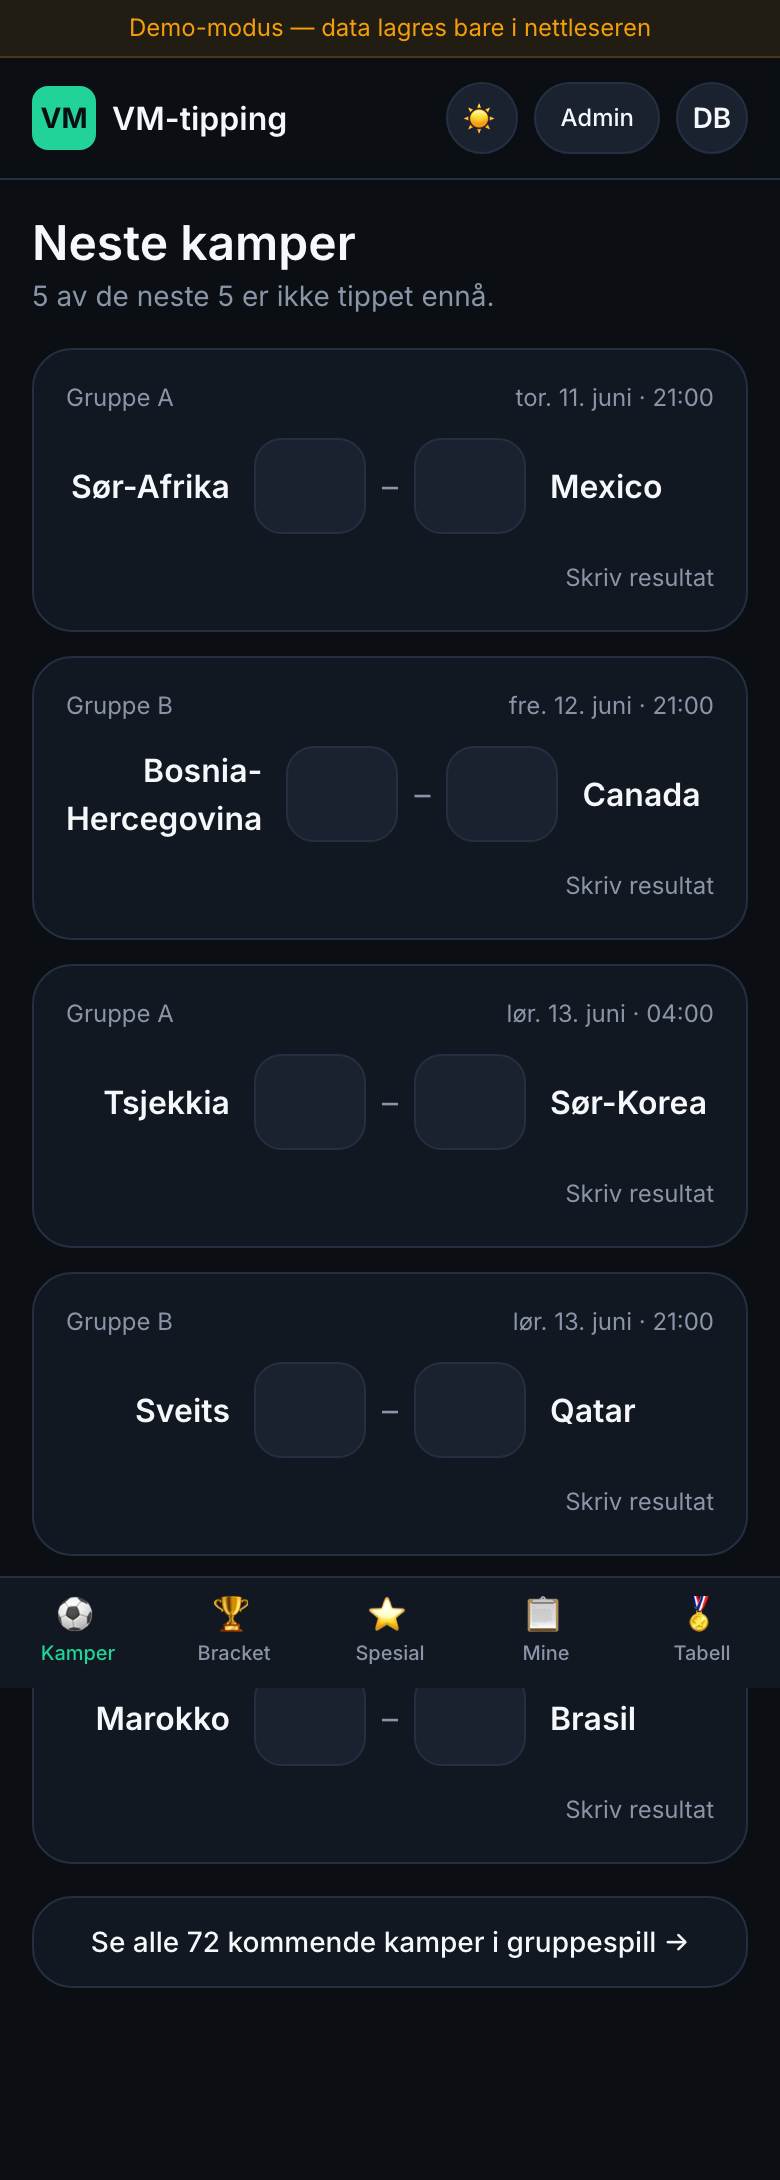
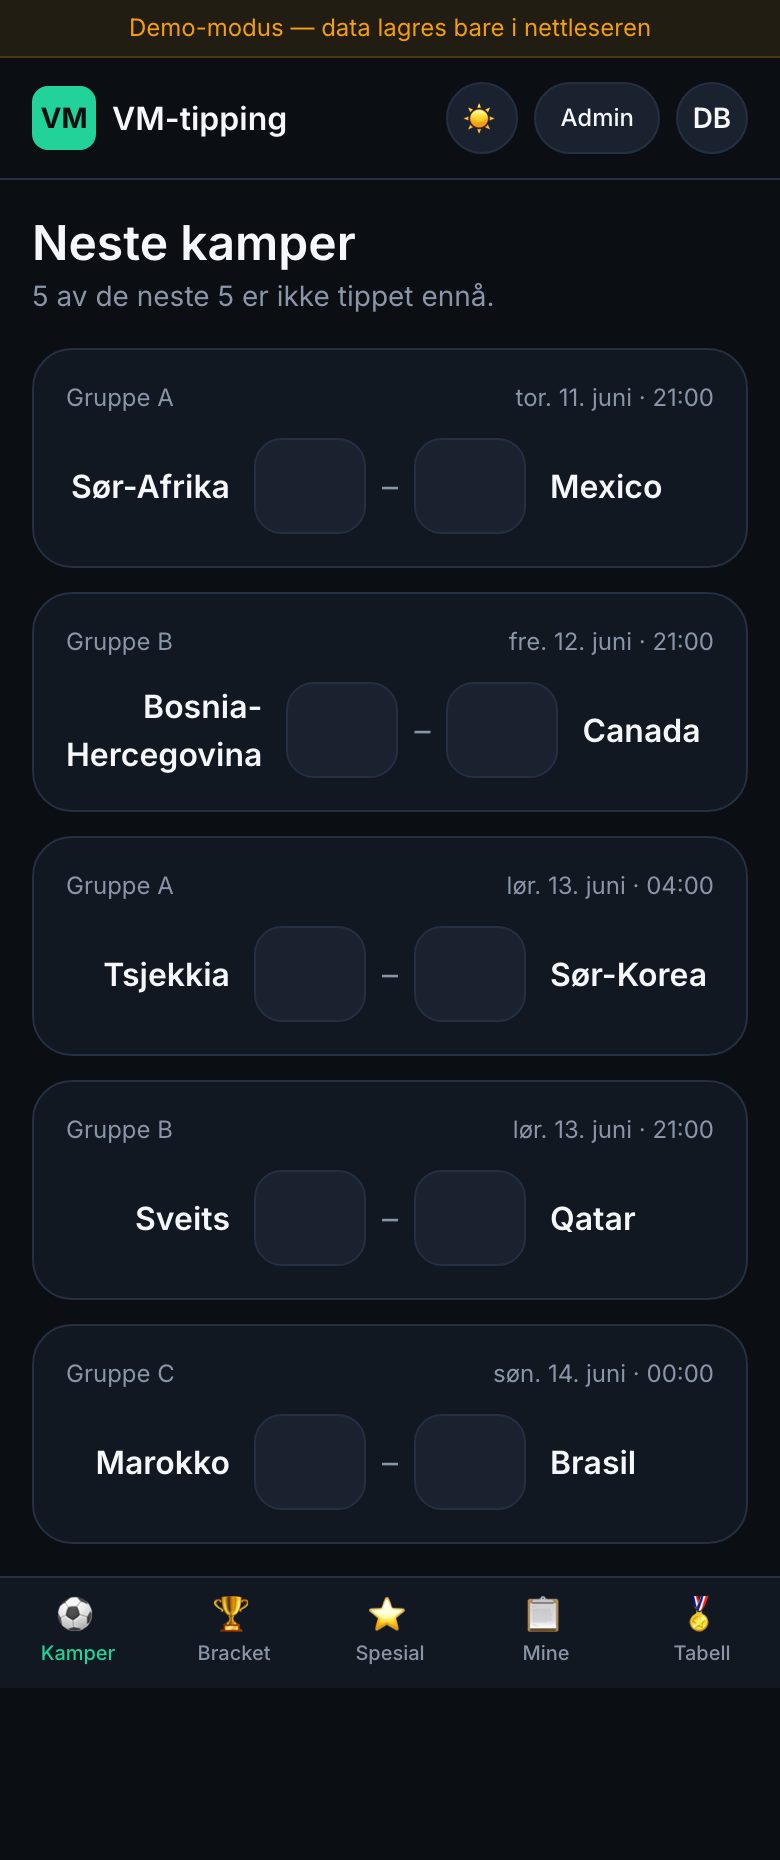
Fjern all lagre-/oppdaterstatus
Skriver du noe så lagres det stille. Ingen 'Lagret ✓', 'Lagrer…',
'Tippet' eller 'Skriv resultat'-tekster lengre. Eneste status er
'Låst' når kampen er i gang.

diff --git a/app/spesial/page.tsx b/app/spesial/page.tsx
@@ -27,7 +27,6 @@ function Spesial() {
   const [toppscorer, setToppscorer] = useState("");
   const [toppassist, setToppassist] = useState("");
   const [mestRødeKort, setMestRødeKort] = useState("");
-  const [status, setStatus] = useState<"idle" | "lagrer" | "lagret">("idle");
   const klar = useRef(false);
 
   useEffect(() => {
@@ -64,9 +63,8 @@ function Spesial() {
       !mestRødeKort
     )
       return;
-    const t = setTimeout(async () => {
-      setStatus("lagrer");
-      await lagreSpesialTip({
+    const t = setTimeout(() => {
+      lagreSpesialTip({
         uid: user.uid,
         vmVinner,
         vmFinalist,
@@ -75,8 +73,6 @@ function Spesial() {
         mestRødeKort,
         lagretTid: Date.now(),
       });
-      setStatus("lagret");
-      setTimeout(() => setStatus("idle"), 1500);
     }, 600);
     return () => clearTimeout(t);
   }, [
@@ -91,21 +87,11 @@ function Spesial() {
 
   return (
     <div className="space-y-4">
-      <div className="flex items-end justify-between">
-        <div>
-          <h1 className="text-2xl font-semibold">Spesialtips</h1>
-          <p className="text-muted text-sm">
-            Lagres automatisk. Kan endres frem til VM starter.
-          </p>
-        </div>
-        <div className="h-5">
-          {status === "lagrer" && (
-            <span className="text-xs text-muted">Lagrer…</span>
-          )}
-          {status === "lagret" && (
-            <span className="text-xs text-success font-semibold">✓ Lagret</span>
-          )}
-        </div>
+      <div>
+        <h1 className="text-2xl font-semibold">Spesialtips</h1>
+        <p className="text-muted text-sm">
+          Kan endres frem til VM starter.
+        </p>
       </div>
 
       <Boks

diff --git a/app/kamper/page.tsx b/app/kamper/page.tsx
@@ -93,9 +93,6 @@ function KampKort({
 }) {
   const [hjem, setHjem] = useState(tip ? String(tip.hjemme) : "");
   const [bort, setBort] = useState(tip ? String(tip.borte) : "");
-  const [lagrer, setLagrer] = useState(false);
-  const [lagret, setLagret] = useState(false);
-
   useEffect(() => {
     if (tip) {
       setHjem(String(tip.hjemme));
@@ -110,15 +107,8 @@ function KampKort({
 
   useEffect(() => {
     if (!gyldig || uendret) return;
-    const t = setTimeout(async () => {
-      setLagrer(true);
-      try {
-        await onLagre(Number(hjem), Number(bort));
-        setLagret(true);
-        setTimeout(() => setLagret(false), 1500);
-      } finally {
-        setLagrer(false);
-      }
+    const t = setTimeout(() => {
+      onLagre(Number(hjem), Number(bort));
     }, 500);
     return () => clearTimeout(t);
     // eslint-disable-next-line react-hooks/exhaustive-deps
@@ -168,34 +158,8 @@ function KampKort({
           <div className="font-semibold">{kamp.bortelag}</div>
         </div>
       </div>
-
-      <div className="mt-3 flex items-center justify-end h-5">
-        <Status lagrer={lagrer} lagret={lagret} tippet={Boolean(tip)} />
-      </div>
     </div>
   );
-}
-
-function Status({
-  lagrer,
-  lagret,
-  tippet,
-}: {
-  lagrer: boolean;
-  lagret: boolean;
-  tippet: boolean;
-}) {
-  if (lagrer)
-    return <span className="text-xs text-muted">Lagrer…</span>;
-  if (lagret)
-    return (
-      <span className="text-xs text-success font-semibold flex items-center gap-1">
-        ✓ Lagret
-      </span>
-    );
-  if (tippet)
-    return <span className="text-xs text-muted">Tippet</span>;
-  return <span className="text-xs text-muted">Skriv resultat</span>;
 }
 
 function Sc({

diff --git a/app/sluttspill/[gruppe]/page.tsx b/app/sluttspill/[gruppe]/page.tsx
@@ -168,9 +168,6 @@ function KampRad({
 }) {
   const [hjem, setHjem] = useState(tip ? String(tip.hjemme) : "");
   const [bort, setBort] = useState(tip ? String(tip.borte) : "");
-  const [lagret, setLagret] = useState(false);
-  const [lagrer, setLagrer] = useState(false);
-
   useEffect(() => {
     if (tip) {
       setHjem(String(tip.hjemme));
@@ -186,15 +183,8 @@ function KampRad({
 
   useEffect(() => {
     if (låst || !gyldig || uendret) return;
-    const t = setTimeout(async () => {
-      setLagrer(true);
-      try {
-        await onLagre(Number(hjem), Number(bort));
-        setLagret(true);
-        setTimeout(() => setLagret(false), 1500);
-      } finally {
-        setLagrer(false);
-      }
+    const t = setTimeout(() => {
+      onLagre(Number(hjem), Number(bort));
     }, 500);
     return () => clearTimeout(t);
     // eslint-disable-next-line react-hooks/exhaustive-deps
@@ -247,21 +237,11 @@ function KampRad({
           {kamp.bortelag}
         </div>
       </div>
-      <div className="mt-2 flex items-center justify-end h-4">
-        {låst ? (
+      {låst && (
+        <div className="mt-2 flex items-center justify-end">
           <span className="text-[10px] text-muted">Låst</span>
-        ) : lagrer ? (
-          <span className="text-[10px] text-muted">Lagrer…</span>
-        ) : lagret ? (
-          <span className="text-[10px] text-success font-semibold">
-            ✓ Lagret
-          </span>
-        ) : tip ? (
-          <span className="text-[10px] text-muted">Tippet</span>
-        ) : (
-          <span className="text-[10px] text-muted">Skriv resultat</span>
-        )}
-      </div>
+        </div>
+      )}
     </div>
   );
 }
